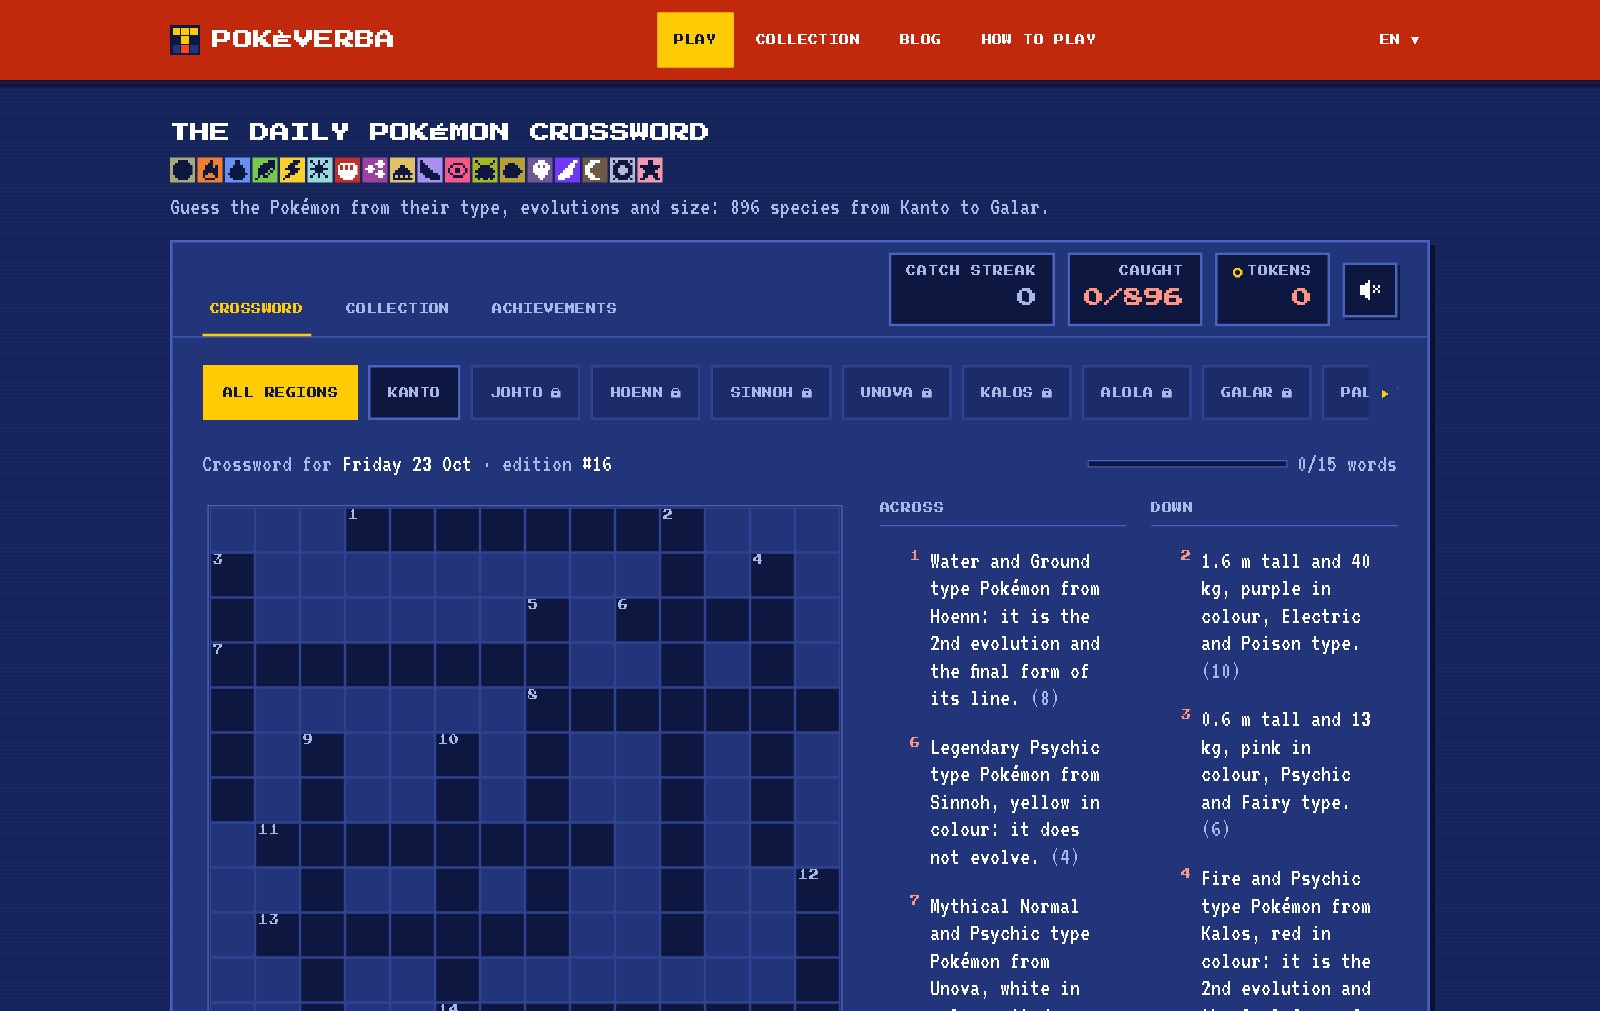
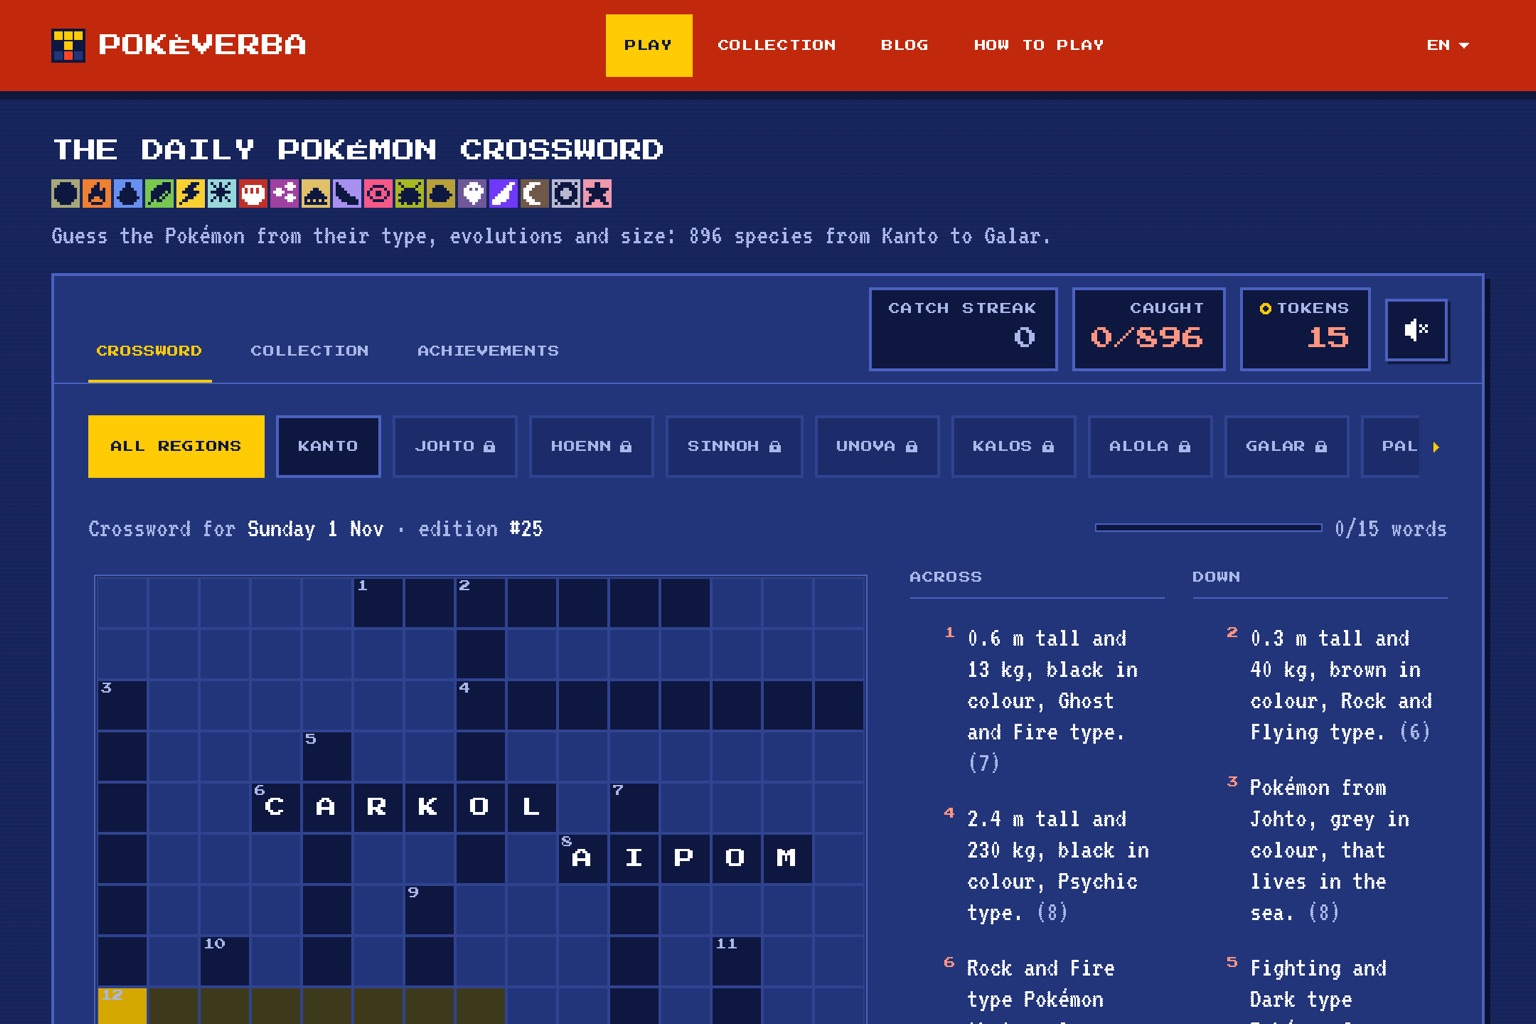
fix: the selected projects get new screenshots, in the frame's 3:2 (#302)
The old files were 1600x1011 in a 3:2 frame, so `object-fit: cover` cut about
42 px per side (ApexFlow lost the start of its sidebar labels). All three are now
1536x1024.

- ApexFlow shows the orders table instead of a half-empty dashboard
- PokèVerba is taken from a narrower window, so its text reads in the card, with
  two words filled in
- Wedding drops the empty side bands for a full-bleed crop of the seal

diff --git a/src/app/content/content.it.ts b/src/app/content/content.it.ts
@@ -47,9 +47,9 @@ export const CONTENT_IT: SiteContent = {
       ],
       image: {
         src: 'images/work/apexflow.jpg',
-        alt: 'La dashboard di ApexFlow con fatturato totale, ordini in attesa, clienti attivi e totali, il grafico annuale del fatturato e la barra di navigazione',
-        width: 1600,
-        height: 1011,
+        alt: 'La pagina ordini della dashboard di ApexFlow: una tabella con ID ordine, data, cliente, tipo di servizio, totale e stato del pagamento, con ordinamento, filtri e paginazione, accanto alla barra di navigazione',
+        width: 1536,
+        height: 1024,
       },
       caseStudy: {
         context:
@@ -86,9 +86,9 @@ export const CONTENT_IT: SiteContent = {
       repos: [{ label: 'Codice su GitHub', url: 'https://github.com/xdelmo/pokeverba-site' }],
       image: {
         src: 'images/work/pokeverba.jpg',
-        alt: 'Il cruciverba Pokémon del giorno di PokèVerba: la griglia, le definizioni orizzontali e verticali, le schede delle regioni e i contatori di serie, catture e gettoni',
-        width: 1600,
-        height: 1011,
+        alt: 'Il cruciverba Pokémon del giorno di PokèVerba con due parole inserite: la griglia, le definizioni orizzontali e verticali, le schede delle regioni e i contatori di serie, catture e gettoni',
+        width: 1536,
+        height: 1024,
       },
       caseStudy: {
         context:
@@ -125,9 +125,9 @@ export const CONTENT_IT: SiteContent = {
       repos: [{ label: 'Codice su GitHub', url: 'https://github.com/xdelmo/wedding-3d-invite' }],
       image: {
         src: 'images/work/wedding-invite.jpg',
-        alt: "L'invito chiuso: una busta di pizzo cosparsa di perle, chiusa da un sigillo di ceralacca bordeaux con le iniziali G&L, sopra l'invito a toccarla per aprirla",
-        width: 1600,
-        height: 1011,
+        alt: "L'invito chiuso da vicino: una busta di pizzo cosparsa di perle, chiusa da un sigillo di ceralacca bordeaux con le iniziali G&L",
+        width: 1536,
+        height: 1024,
       },
       caseStudy: {
         context:

diff --git a/src/app/content/content.en.ts b/src/app/content/content.en.ts
@@ -49,9 +49,9 @@ export const CONTENT_EN: SiteContent = {
       demoUrl: 'https://dashboard-tesi.vercel.app/welcome',
       image: {
         src: 'images/work/apexflow.jpg',
-        alt: 'ApexFlow dashboard with total revenue, pending orders, active and total customers, the yearly revenue chart and the navigation sidebar',
-        width: 1600,
-        height: 1011,
+        alt: 'The orders page of the ApexFlow dashboard: a table of order IDs, dates, customers, service types, totals and payment statuses, with sorting, filters and pagination, beside the navigation sidebar',
+        width: 1536,
+        height: 1024,
       },
       caseStudy: {
         context:
@@ -92,9 +92,9 @@ export const CONTENT_EN: SiteContent = {
       demoUrl: 'https://sbustiamobro.it',
       image: {
         src: 'images/work/pokeverba.jpg',
-        alt: "PokèVerba's daily Pokémon crossword: the grid, the across and down clues, the region tabs and the catch streak, caught and token counters",
-        width: 1600,
-        height: 1011,
+        alt: "PokèVerba's daily Pokémon crossword with two words filled in: the grid, the across and down clues, the region tabs and the catch streak, caught and token counters",
+        width: 1536,
+        height: 1024,
       },
       caseStudy: {
         context:
@@ -133,9 +133,9 @@ export const CONTENT_EN: SiteContent = {
       demoUrl: 'https://wedding-3d-invite-demo-five.vercel.app/',
       image: {
         src: 'images/work/wedding-invite.jpg',
-        alt: 'The closed invitation: a lace envelope scattered with pearls, sealed with a burgundy wax seal engraved G&L, above the hint to tap and open it',
-        width: 1600,
-        height: 1011,
+        alt: 'The closed invitation up close: a lace envelope scattered with pearls, sealed with a burgundy wax seal engraved G&L',
+        width: 1536,
+        height: 1024,
       },
       caseStudy: {
         context:
